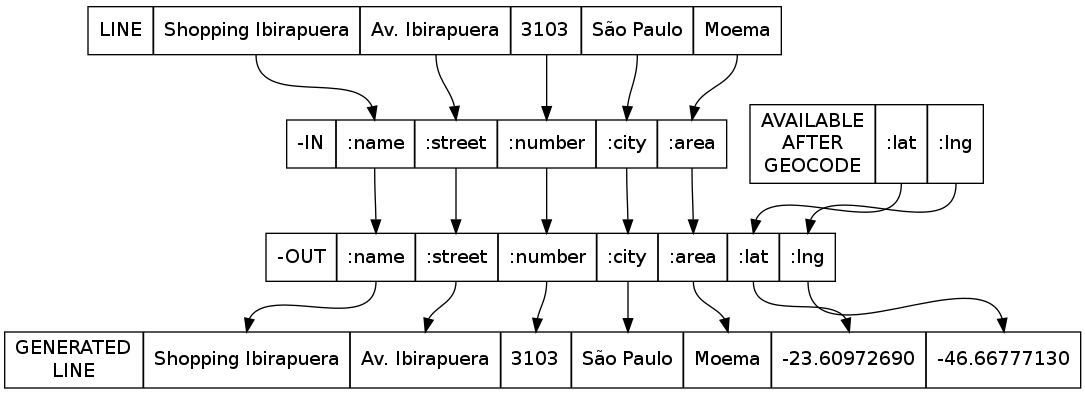
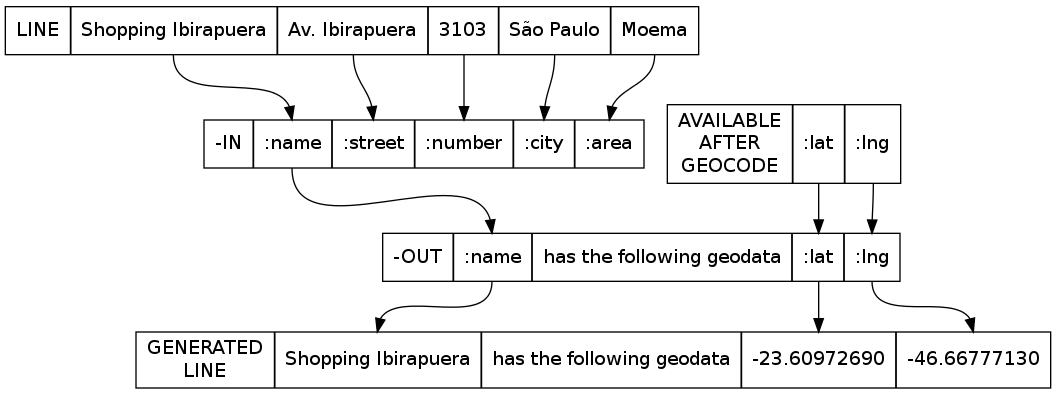
Fixed graph to reflect the example given

diff --git a/README.md b/README.md
@@ -27,7 +27,7 @@ Suppose you have the given csv file:
 Just call the ultimate geocoder like this:
 
     lein run -in ":name :street :number :city :area" \
-             -out ":name, :street, :number, :city, :area, :lat, :lng" \
+             -out ":name Shopping Ibirapuera has the following geodata :lat, :lng" \
              -query ":street, :number, :area, :city - Brasil" \ 
              -s my.csv
 
